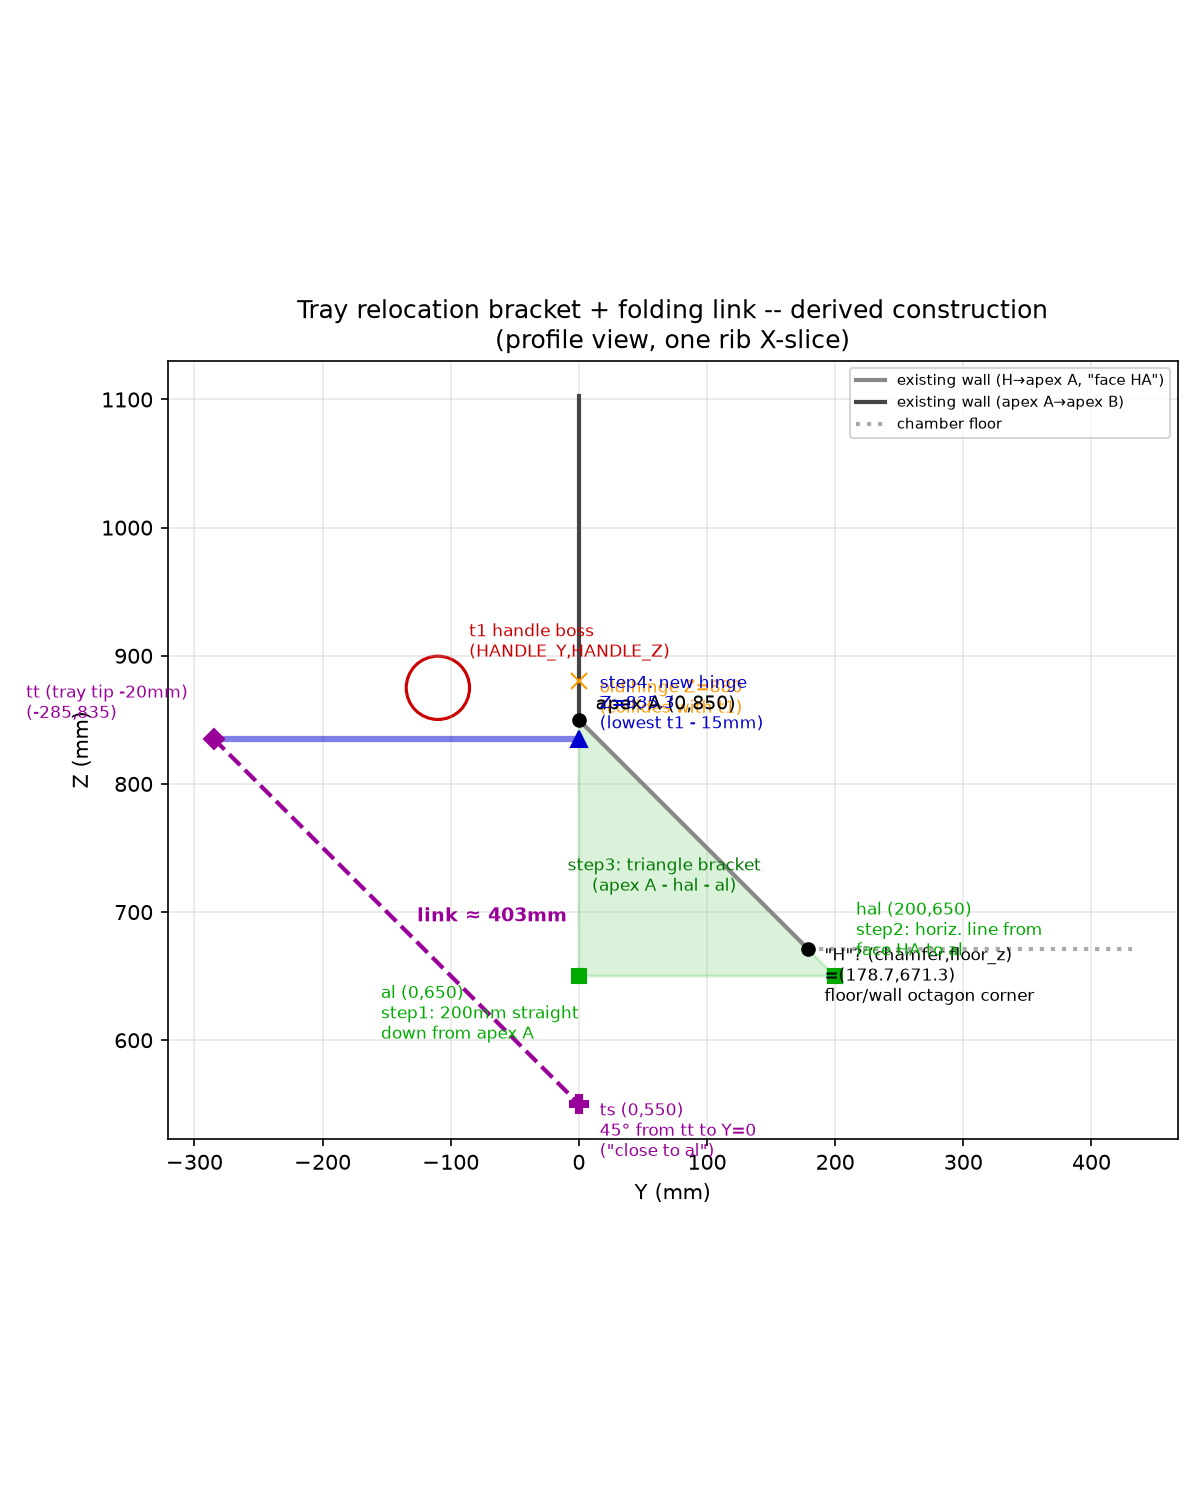
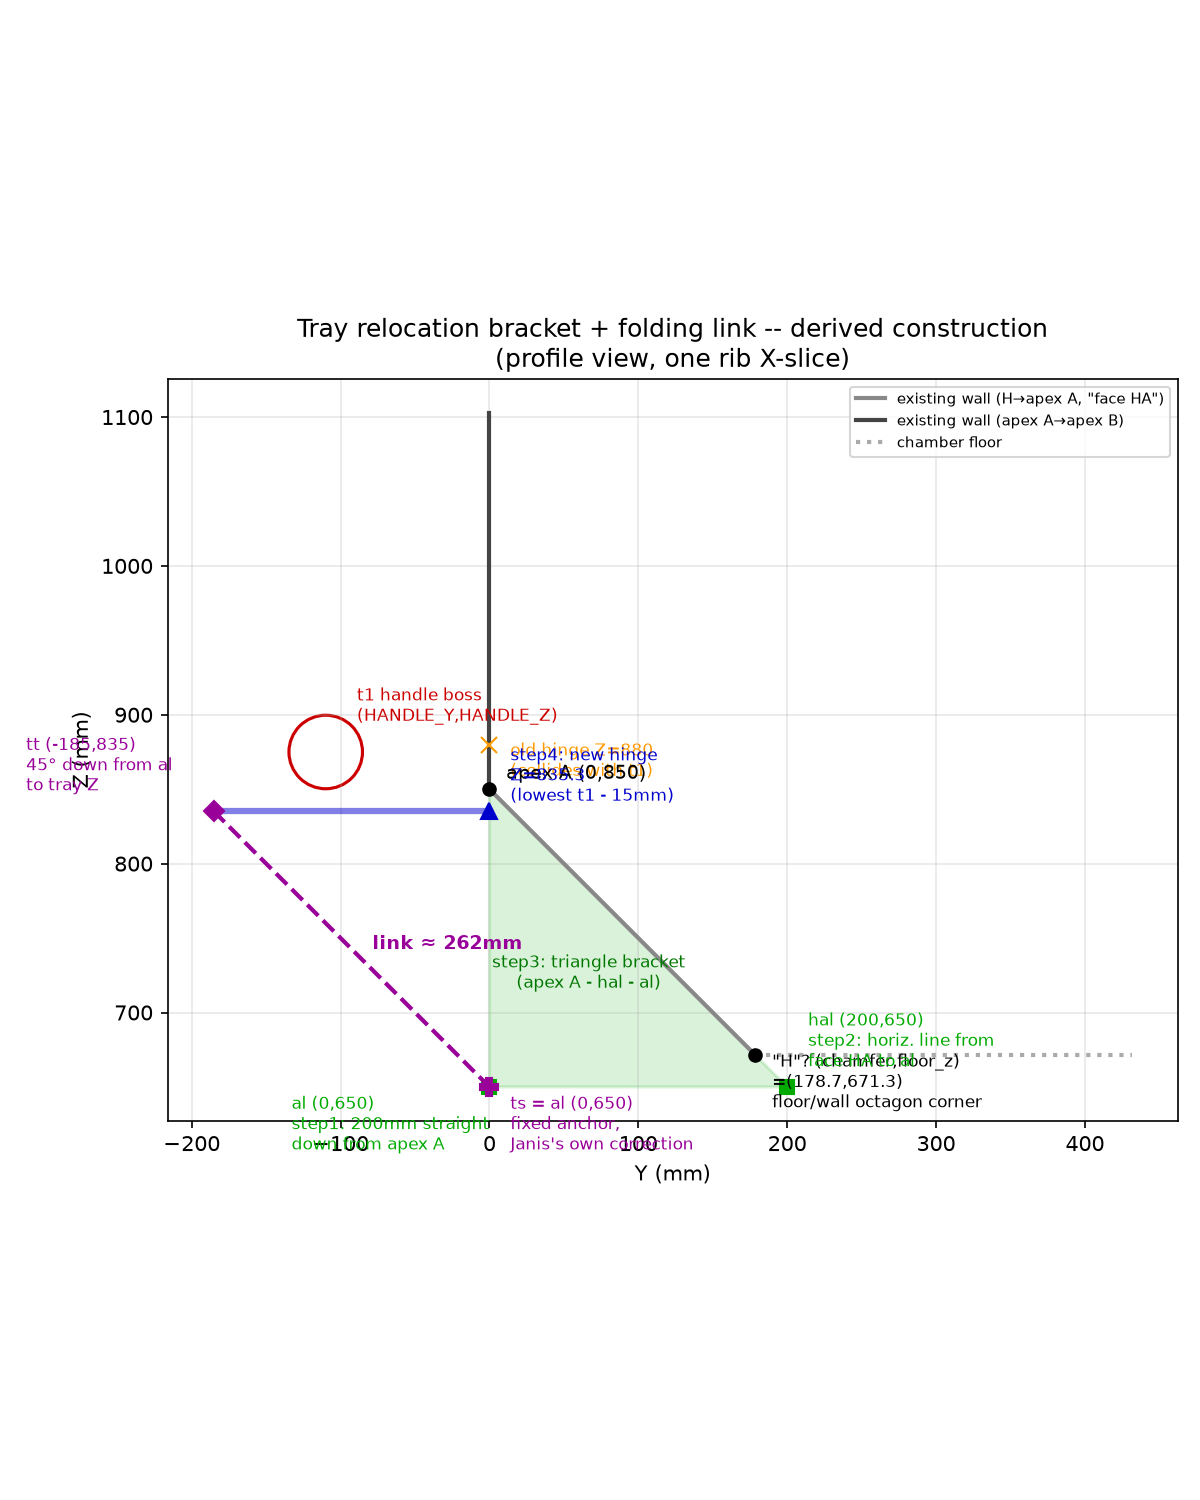
bbq-lid-hinge-v12: fix tray folding link anchor, add hinge skirt
Janis confirmed the H/face-HA reading (octagon's 8th vertex, face just
before apex A) matches what was built. Two corrections per Janis's
follow-up:

- Folding link: ts is now al itself (the real fixed anchor from step
  1), with the 45 degree line projected from al up to the tray's own Z
  to find tt, instead of fixing tt first and computing an approximate
  ts. New link length 262.1mm (was 403.1mm -- the old ts missed al by
  ~100mm).
- New TRAY_SKIRT_H=10mm downturned lip at the tray's inner edge, rigidly
  part of the tray, covers the hinge from view at every angle and
  finishes the raw edge.

Re-verified Simple:yes at 0/45/90 deg door + -90/0 deg tray angles, and
the interference sweep vs front_wheel_support() still comes back empty
at every tray angle with the skirt added.

Claude-Session: https://claude.ai/code/session_01CFZoN5ApGvkwkiCdYAj7nL

diff --git a/docs/tray-relocation-bracket.md b/docs/tray-relocation-bracket.md
@@ -9,16 +9,12 @@ Fixes a real, confirmed collision: the prep trays' old hinge (`HINGE_Z`
 
 ![Derived construction](tray-relocation-bracket.png)
 
-> **Flagged interpretation, not previously an established term:**
-> "face HA" doesn't appear anywhere else in this project. cc's reading —
-> forced by step 2's own wording, since "a horizontal line from face HA
-> to connect with al" only makes sense if apex A does *not* itself sit
-> on face HA — is that **H** is the existing octagon corner where the
-> chamber floor meets the 45° chamfer wall directly below apex A
-> (`[chamfer, chamber_floor_z]` = live `[178.665, 671.335]`), and **face
-> HA** is that diagonal chamfer wall. This reading is what's built below.
-> Flagged for Janis to correct if wrong — everything downstream follows
-> from this one assumption.
+> **H / face HA — confirmed by Janis:** the octagon has 8 vertices;
+> running the alphabet around them (A, B, C...), the last one is **H**.
+> **Face HA** is the face just before apex A going around — i.e. the
+> existing chamfer wall directly below apex A
+> (`H = [chamfer, chamber_floor_z]` = live `[178.665, 671.335]`). Matches
+> what's built below exactly.
 
 1. **al** = straight line down from apex A, 200mm in Z: `[0, 650]`
    (`TRAY_AL`).
@@ -37,14 +33,33 @@ Fixes a real, confirmed collision: the prep trays' old hinge (`HINGE_Z`
    read the global `HINGE_Z`. Real clearance confirmed: new tray plate
    top surface (837.3mm) sits 13mm clear of the handle boss's own lowest
    point (850.3mm) — was previously fully inside it.
-5. **Folding link**: tray tip inset 20mm in Y (`tt`), 45° line from `tt`
-   to the apex-A/al plane (Y=0) — lands at `ts=[0, 550.3]` (99.7mm from
-   `al`, in the same below-floor region — Janis's own "sweet spot,"
-   flagged as approximate per Janis's own "try...to find" phrasing).
-   **Link length: tt-to-ts straight-line distance = 403.1mm** (this is
+5. **Folding link** — corrected per Janis's own follow-up: the first
+   pass fixed `tt` at "tray tip -20mm" and computed an approximate `ts`
+   that landed 99.7mm short of `al`, which isn't tight enough for a real
+   45° link. Flipped the construction: **`ts` = `al` itself** (the real,
+   fixed anchor from step 1, not merely "close to" it), then the 45°
+   line runs the OTHER way — from `al` back up to the tray's own
+   underside (`HINGE_Z`=835.3mm) — to find `tt`. Result: `tt=[-185.3,
+   835.3]`, well inside the tray's own real tip (deployed span reaches
+   Y=-305.01mm), i.e. `tt` sits further inward from the tray's edge than
+   the first pass, exactly as Janis called for.
+   **Link length: tt-to-ts straight-line distance = 262.1mm** (this is
    the number to search the market for — the link itself isn't modeled
    as a real folding 2-bar mechanism here, since Janis's own ask was
-   just the length, not the mechanism).
+   just the length, not the mechanism; when the tray folds to stowed
+   vertical, this rigid `tt`-`ts` relationship no longer holds exactly —
+   a real folding 2-bar link is needed there, per Janis's own note that
+   it should collapse 50/50 and hide behind the tray's own face).
+
+## Tray skirt
+
+A 10mm skirt (`TRAY_SKIRT_H`) was added at the tray's own inner
+(hinge-side) edge, folded 90° from the main plate and rigidly part of
+the tray — per Janis's explicit ask, to cover the hinge from view (both
+stowed and deployed, since it moves with the tray) and finish the raw
+edge instead of leaving it sharp. Exact fold direction/placement wasn't
+fully specified — cc's own judgment call, disclosed here, not silently
+assumed.
 
 ## Verification
 

diff --git a/cc_chat_log.md b/cc_chat_log.md
@@ -4,6 +4,11 @@
 # cc updates TOP of log — newest entry FIRST.
 # Claude Web reads first 3 entries only. Keep each entry under 10 lines.
 
+### 2026-07-30 | bbq-lid-hinge-v12 | Tray link fix (Janis confirmed H) + skirt added.
+
+Janis confirmed the H/face-HA reading from the diagram: octagon has 8 vertices, H is the last one going around, face HA is the face just before apex A -- matches exactly what was built. Two real fixes: (1) folding link flipped per Janis's own correction -- `ts` is now `al` itself (the real, fixed anchor from step 1), with the 45° line projected the OTHER way (from al UP to the tray's own Z=835.3) to find `tt` instead of fixing tt first and computing an approximate ts. New tt=[-185.3,835.3] lands well inside the tray's real tip, exactly as asked. New link length: **262.1mm** (was 403.1mm -- the old approximate ts missed al by ~100mm). (2) New `TRAY_SKIRT_H`=10mm downturned lip at the tray's own inner edge, rigidly part of the tray -- covers the hinge from view at every angle (stowed or deployed) and finishes the raw edge instead of leaving it sharp, per Janis's explicit ask.
+Re-verified: `Simple: yes` at 0/45/90° door + -90/0° tray angles, and the `trays()` vs `front_wheel_support()` interference sweep still comes back empty at every tray angle with the skirt added. Full detail: `docs/tray-relocation-bracket.md`.
+
 ### 2026-07-30 | bbq-lid-hinge-v12 | TRAY RELOCATION BRACKET -- fixes real grab-handle-vs-tray collision.
 
 Old tray hinge (`HINGE_Z`=880) put the deployed tray plate (Z=[880,882]) fully inside the grab handle boss's own Z-range (t1/R1 -> [850.3,899.7]) -- a real, confirmed overlap, not a near-miss. Built Janis's own 5-step fix literally (full derivation + diagram: `docs/tray-relocation-bracket.md`, `docs/tray-relocation-bracket.png`): a new triangular gusset bracket (`tray_bracket()`, apex A / hal / al, 30mm wide) at the same 4 hinge X positions, redefining `HINGE_Z` to 835.3mm (lowest point of the handle boss minus 15mm -- old formula deleted, not left dead). One interpretation flagged and disclosed, not silently assumed: "face HA" isn't an existing term in this project -- cc read it as the existing chamfer wall from apex A down to the floor corner, the only reading that makes step 2's own wording ("horizontal line from face HA to connect with al") work at all.

diff --git a/bbq-offset-smoker/PART_MANIFEST.md b/bbq-offset-smoker/PART_MANIFEST.md
@@ -4,7 +4,21 @@
 # new part. Update this file in the SAME prompt that adds/renames/removes
 # any ASSEMBLY-called module — never let it drift from the real file.
 #
-# Version: 1.43 — 2026-07-30 (bbq-lid-hinge-v12, TRAY RELOCATION
+# Version: 1.44 — 2026-07-30 (bbq-lid-hinge-v12, tray link fix + skirt):
+# Janis CONFIRMED the H/face-HA reading (octagon has 8 vertices, H is
+# the last one going around, face HA is the face just before apex A --
+# matches 1.43's own construction exactly). Two real corrections: (1)
+# folding link flipped -- `ts` is now `al` itself (the real, fixed
+# anchor), 45° projected the OTHER way (from al up to the tray's own Z)
+# to find `tt`, landing well inside the tray's real tip as Janis called
+# for. New link length: 262.1mm (was 403.1mm, the old approximate `ts`
+# missed `al` by ~100mm). (2) new `TRAY_SKIRT_H`=10mm -- a downturned lip
+# at the tray's own inner edge, rigidly part of the tray, covers the
+# hinge from view at every angle and finishes the raw edge. Re-verified
+# Simple:yes at 0/45/90 door + -90/0 tray angles, interference sweep vs
+# front_wheel_support() still empty at every tray angle with the skirt
+# added.
+# Previous: 1.43 — 2026-07-30 (bbq-lid-hinge-v12, TRAY RELOCATION
 # BRACKET -- fixes real grab-handle-vs-tray collision): old tray hinge
 # (HINGE_Z=880) put the deployed tray plate inside the handle boss's own
 # Z-range (t1/R1 -> Z=[850.3,899.7]) -- real overlap, not a near-miss.
